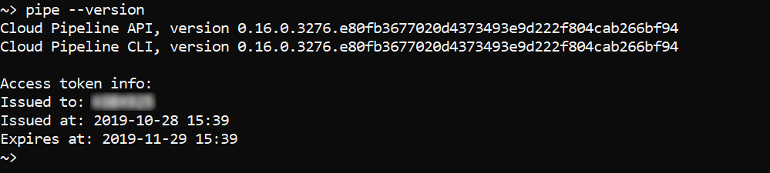
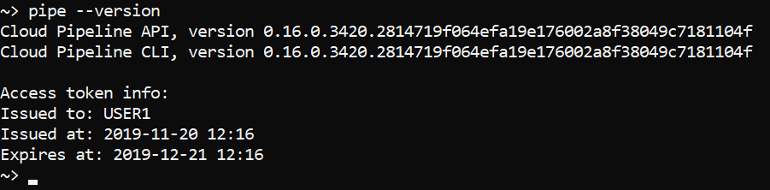
Descriptions of 'pipe update' and 'pipe --version' commands were added into docs

diff --git a/docs/md/manual/14_CLI/14.1._Install_and_setup_CLI.md b/docs/md/manual/14_CLI/14.1._Install_and_setup_CLI.md
@@ -3,6 +3,7 @@
 - [How to install and setup `pipe` CLI](#how-to-install-and-setup-pipe-cli)
 - [`configure` command options](#configure-command-options)
     - [`pipe` configuration for using NTLM Authentication Proxy](#pipe-configuration-for-using-ntlm-authentication-proxy)
+- [Update the CLI](#update-the-cli)
 
 ## How to install and setup `pipe` CLI
 
@@ -10,14 +11,17 @@
 2. Select **Pipe CLI** item at the left panel.
 3. Select your Operation System from the list.
 4. Follow the installation instructions for your OS (e.g. Linux). Commands below shall be executed in the Terminal.  
-    When installation is finished, type **`pipe`** in the Terminal to test pipe installation. This command shall produce short description of pipe CLI and pipe CLI commands.
-5. Press the **Generate access key** button.
+    When installation is finished, type `pipe` in the Terminal to test pipe installation. This command shall produce short description of pipe CLI and pipe CLI commands (it is the same as the `pipe --help` command execution).  
+    Then type the `pipe --version` command - this command will output only the Cloud Pipeline CLI version:  
+    ![CP_InstallAndSetupCLI](attachments/InstallAndSetupCLI_7.png)
+5. Return to the Web GUI and press the **Generate access key** button.
 6. Copy **CLI configure command**  
     ![CP_InstallAndSetupCLI](attachments/InstallAndSetupCLI_1.png)
-7. Paste copied command into the Terminal and run it:  
+7. Paste copied command into the Terminal and run it to configure:  
     ![CP_InstallAndSetupCLI](attachments/InstallAndSetupCLI_2.png)
-8. Now Cloud Pipeline **CLI** is ready to use. To check it, run any command, e.g. `pipe --version`:  
-    ![CP_InstallAndSetupCLI](attachments/InstallAndSetupCLI_3.png)
+8. Now Cloud Pipeline **CLI** is ready to use. To check it, run the command `pipe --version` again:  
+    ![CP_InstallAndSetupCLI](attachments/InstallAndSetupCLI_3.png)  
+    This time the command will output the Cloud Pipeline CLI version, API version, short info about received access token (the user-owner name, usage dates)
 
 > **_Note_**: when `pipe` CLI is being configured JWT token is given for one month, if user didn't select another expiration date. The warning about the expiration date of the provided token is printed, if it is less than 7 days left:
 >
@@ -61,3 +65,17 @@ pipe configure --proxy-ntlm --proxy "http://myproxy:3128"
 ```
 
 ![CP_InstallAndSetupCLI](attachments/InstallAndSetupCLI_6.png)
+
+## Update the CLI
+
+The command to update the Cloud Pipeline CLI version:
+
+``` bash
+pipe update [PATH]
+```
+
+**PATH** - defines the API URL path to download Cloud Pipeline CLI source (optional argument).
+
+This command compare the CLI and API versions. If the CLI version is less than the API one, it will update the CLI - the latest Cloud Pipeline CLI version will be installed. Otherwise no actions will be performed.  
+Example:  
+![CP_InstallAndSetupCLI](attachments/InstallAndSetupCLI_8.png)
